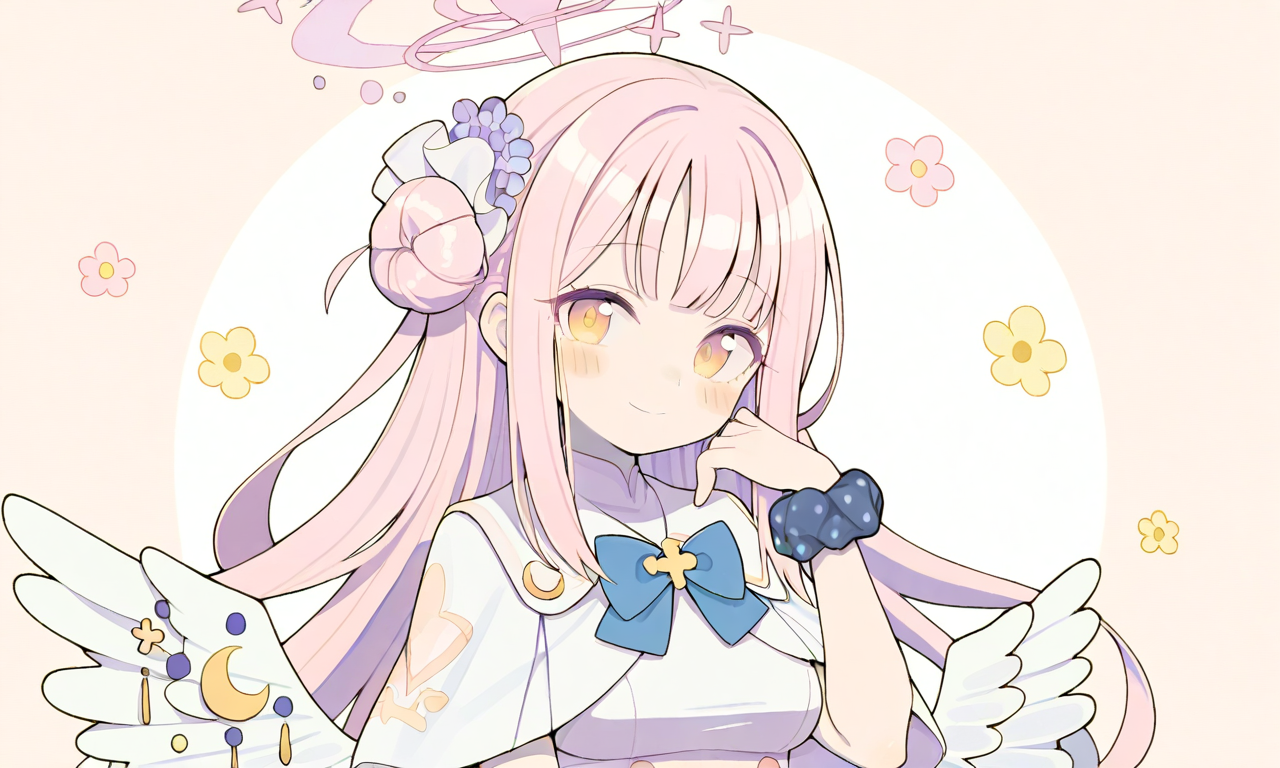
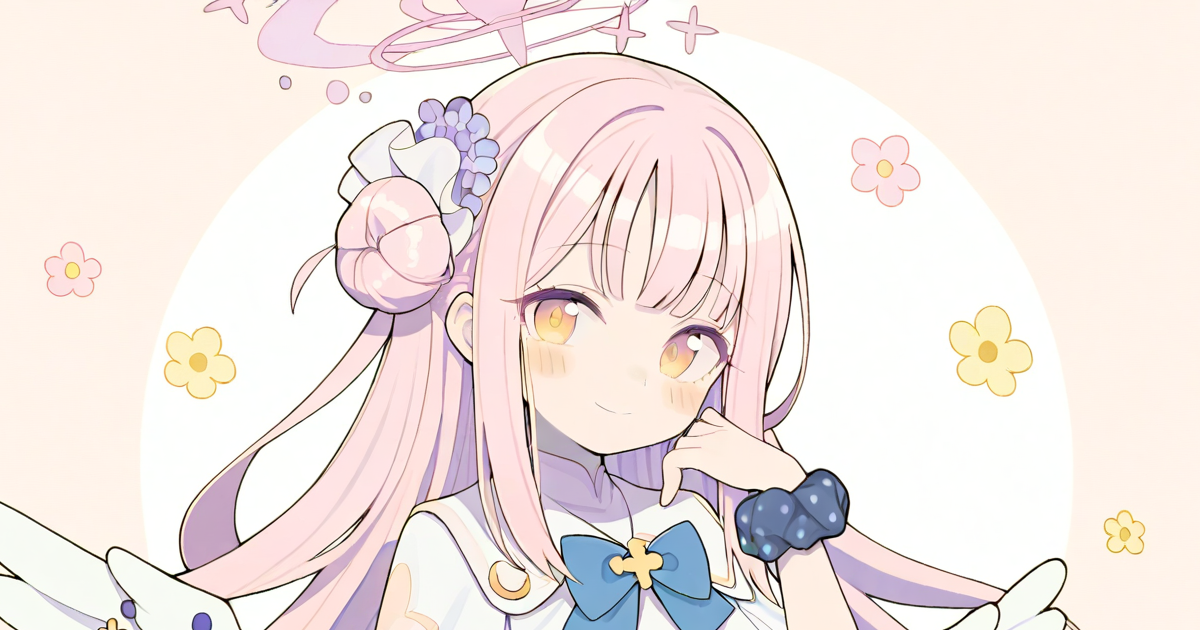
feat: fix og image

diff --git a/src/app/layout.tsx b/src/app/layout.tsx
@@ -72,8 +72,8 @@ export const metadata: Metadata = {
     images: [
       {
         url: "https://lincie.me/og-image.png",
-        width: 512,
-        height: 512,
+        width: 1200,
+        height: 630,
         alt: "LinCie",
       },
     ],
